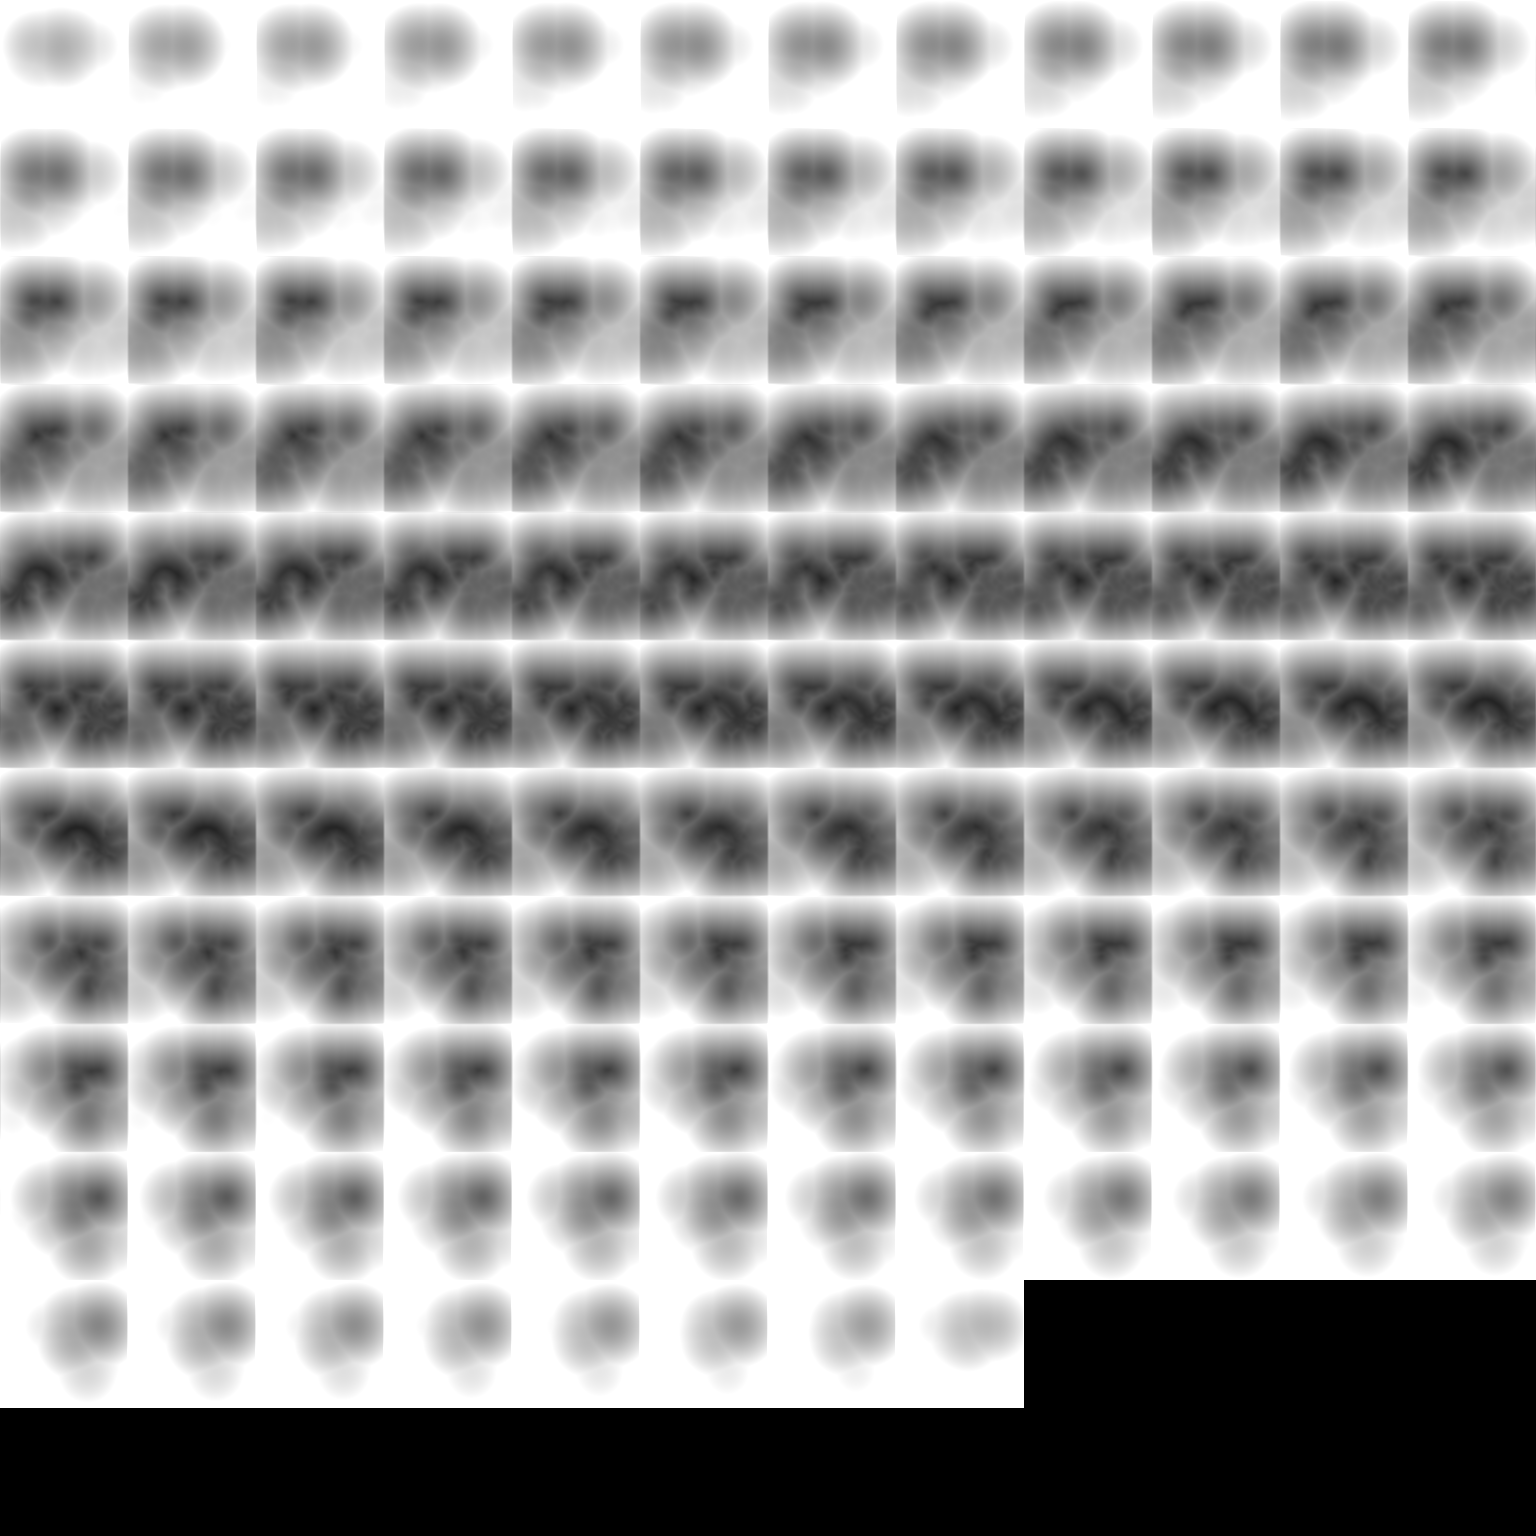
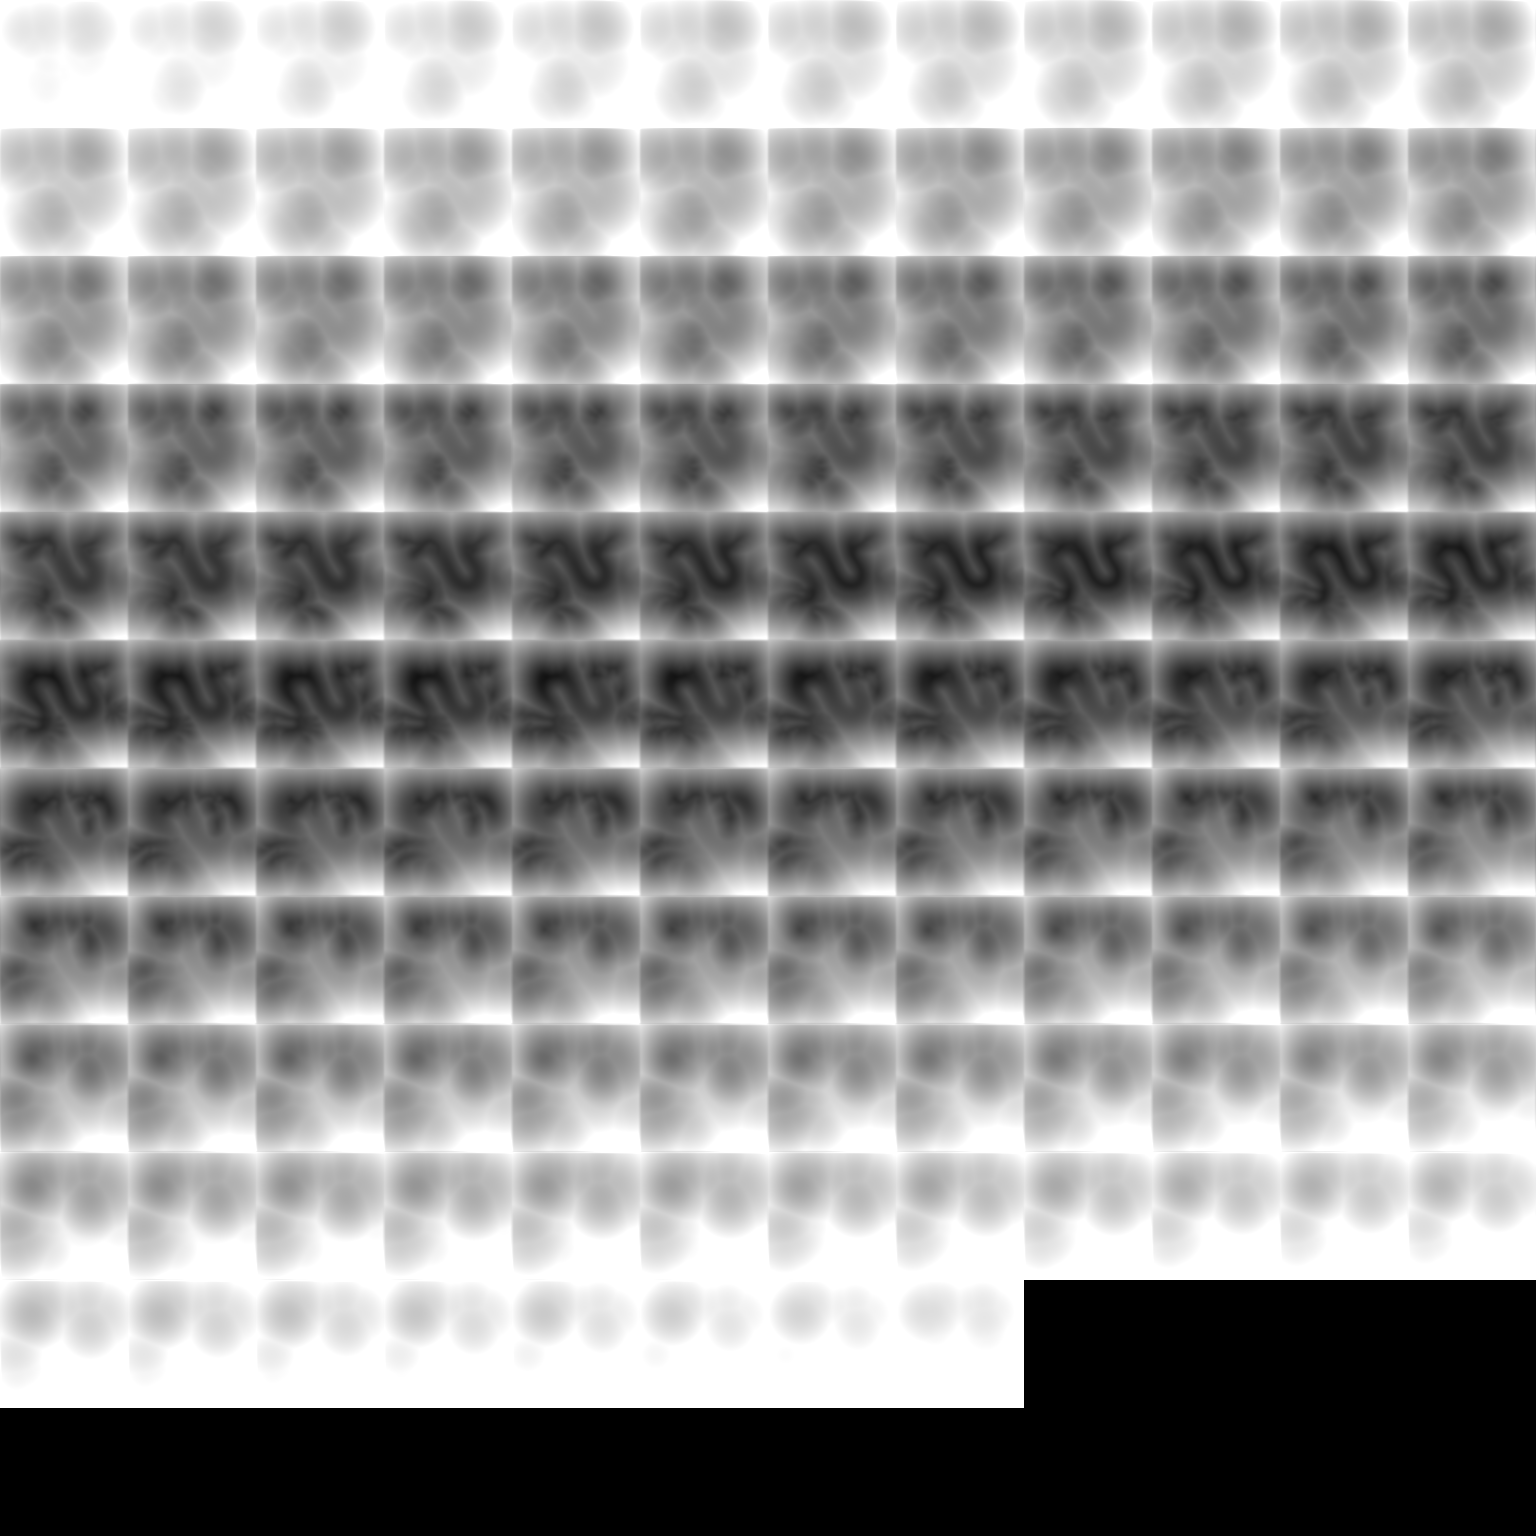
Let touch steer the satellite and swap in the classic Stanford dragon

diff --git a/script.js b/script.js
@@ -177,6 +177,7 @@
         "uniform float uIdB;",
         "uniform float uMorph;",    // 0 = shape A, 1 = shape B
         "uniform float uGrab;",     // 0 = satellites orbit the form, 1 = they swarm the cursor
+        "uniform float uCamAmt;",   // how much the pointer sways the camera (damped on touch)
         "vec3 gMouse3;",            // cursor unprojected to the sculpture's depth plane
 
         "mat2 rot(float a){ float c = cos(a), s = sin(a); return mat2(c, -s, s, c); }",
@@ -341,8 +342,8 @@
         "    vec2 OFF = vec2(0.62*fit, mix(-0.36, 0.02, fit));",
 
         /* orbiting camera, steered by the mouse */
-        "    float ca = uTime*0.08 + uSeed*6.2832 + uMouse.x*0.7;",
-        "    float ce = 0.02 + uMouse.y*0.22;",  // near-horizontal orbit keeps verticals vertical
+        "    float ca = uTime*0.08 + uSeed*6.2832 + uMouse.x*0.7*uCamAmt;",
+        "    float ce = 0.02 + uMouse.y*0.22*uCamAmt;",  // near-horizontal orbit keeps verticals vertical
         "    vec3 ro = vec3(sin(ca)*cos(ce), sin(ce), cos(ca)*cos(ce)) * mix(4.8, 3.9, fit);",
         "    vec3 fwd = normalize(-ro);",
         "    vec3 rgt = normalize(cross(vec3(0.0, 1.0, 0.0), fwd));",
@@ -701,12 +702,17 @@
     var mouse = { x: 0, y: 0 }, target = { x: 0, y: 0 };
     var uGrab = gl.getUniformLocation(prog, "uGrab");
     var grab = 0, lastMove = -1e9;
-    addEventListener("pointermove", function (e) {
-        if (e.pointerType === "touch") return;   // touch drags are for scrolling
+    // touch steers the satellite too: listeners stay passive so drags
+    // still scroll the page, but the ball chases the fingertip. The
+    // camera sway is damped on touch so scrolling doesn't rock the scene.
+    gl.uniform1f(gl.getUniformLocation(prog, "uCamAmt"), isMobile ? 0.4 : 1.0);
+    function pointTo(e) {
         target.x = (e.clientX / innerWidth) * 2 - 1;
         target.y = -((e.clientY / innerHeight) * 2 - 1);
         lastMove = performance.now();
-    }, { passive: true });
+    }
+    addEventListener("pointermove", pointTo, { passive: true });
+    addEventListener("pointerdown", pointTo, { passive: true });
     // debug: ?grab plants the cursor metaball up-right of the sculpture
     if (/[?&]grab/.test(location.search)) {
         target.x = 0.45; target.y = 0.25;
